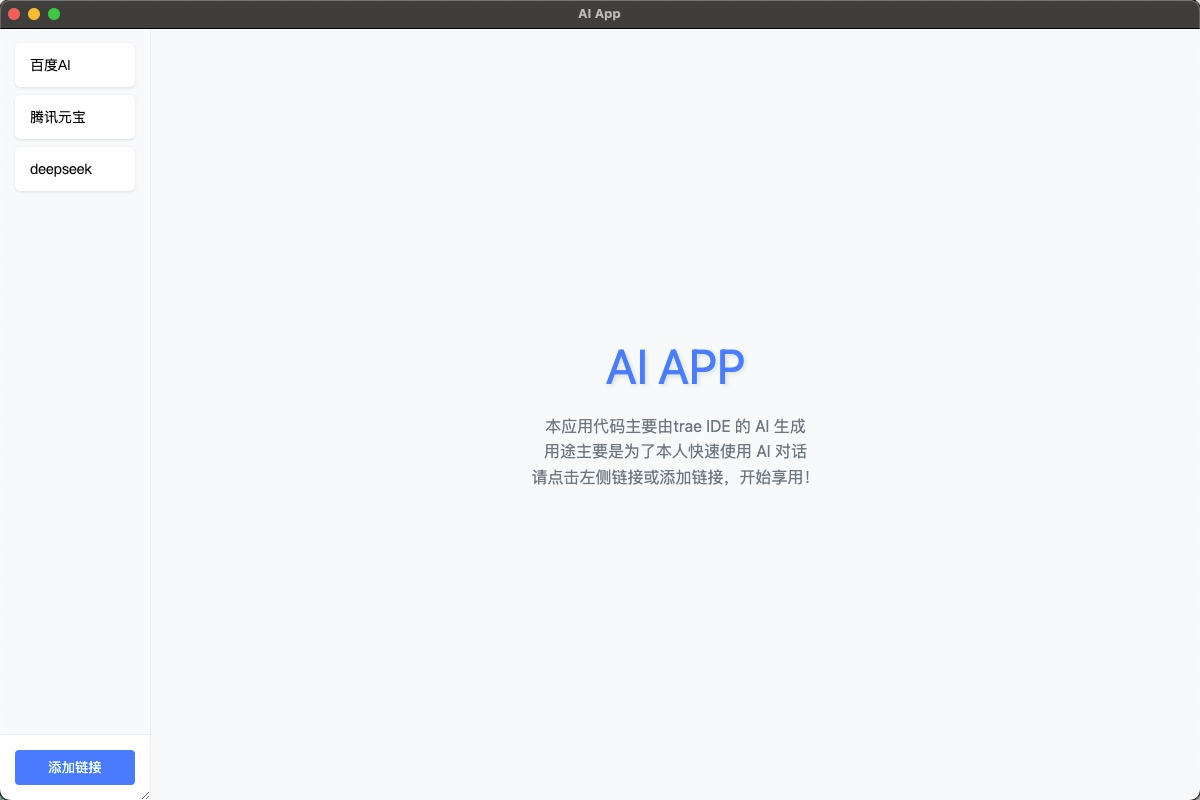
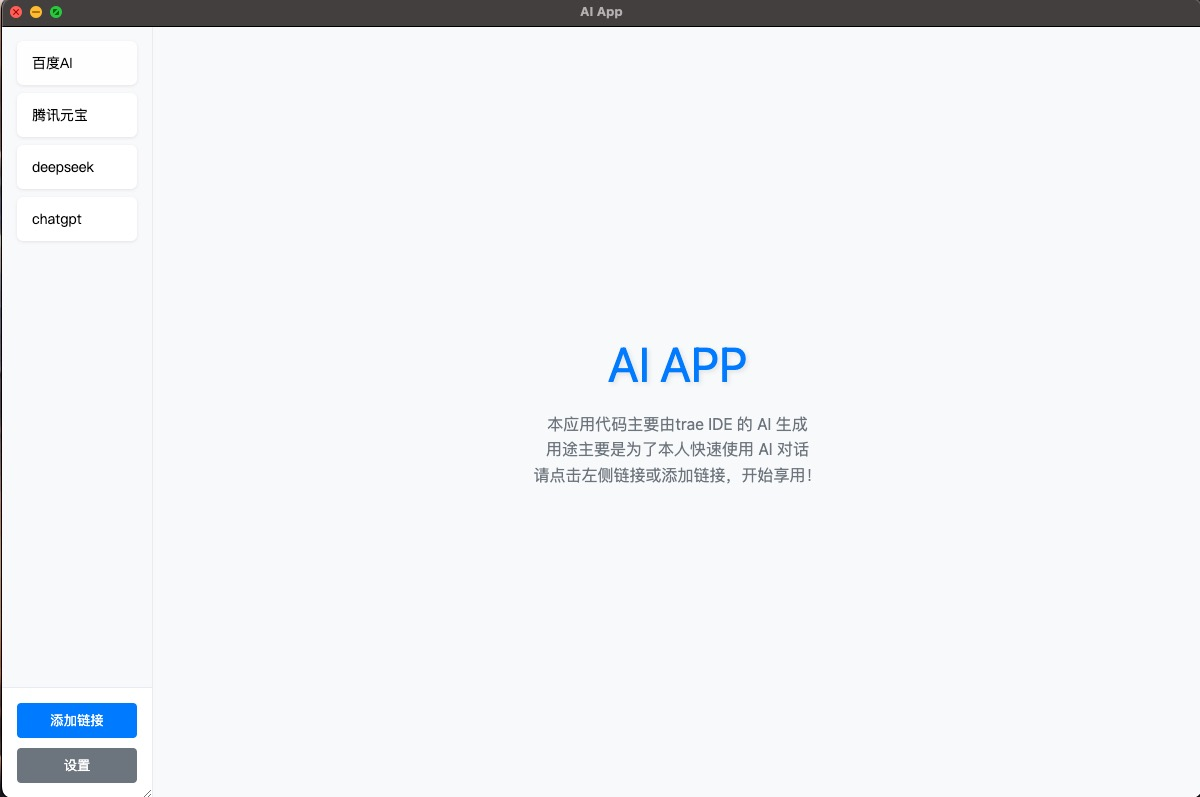
更新文档

diff --git a/README.md b/README.md
@@ -2,8 +2,10 @@
 
 - 可配置访问列表（点击`添加链接`增加链接）
 - 快捷键显隐应用 (command/control + B)
+- 可配置快捷键
 
 # 界面
 
 ![](docs/ui1.jpg)
 ![](docs/ui2.jpg)
+![](docs/ui3.jpg)
